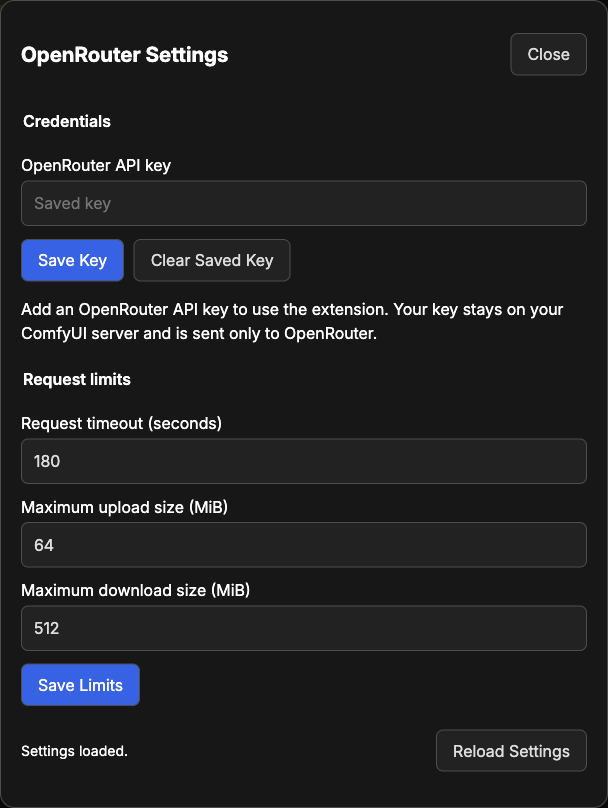
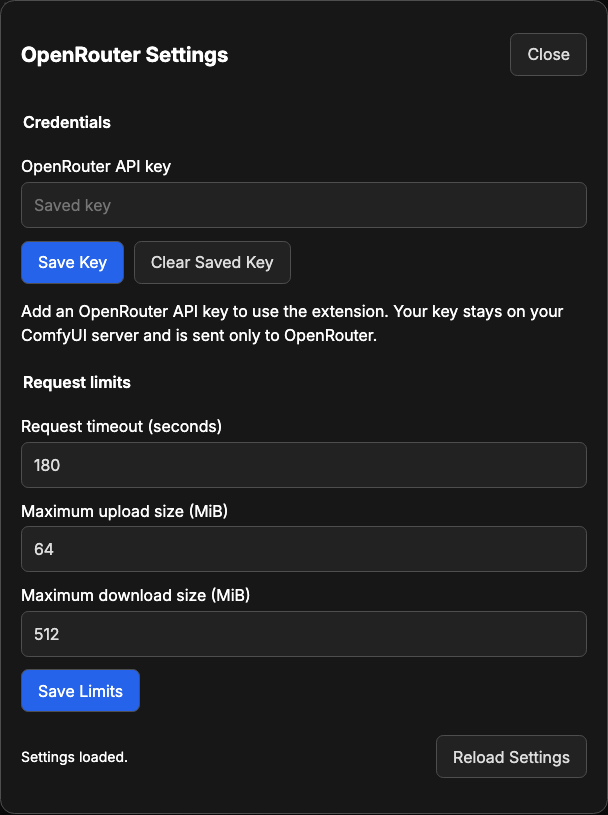
docs(docs): redraw the readme images in the family design
The banner, badges, and node map now follow the design of the BytePlus
and Dreamina packs: a near-black frame with a glow, a small eyebrow and
a gradient title, pill badges, and a node map with one card for each
kind of node. The colors keep the OpenRouter indigo and the electric
yellow of this pack.

The new mark is a wire that splits into three routes, with the family's
yellow socket at the end of the bright middle route. It is the
extension's own drawing, not OpenRouter's logo. The banner draws it,
docs/images/brand/logo.png holds it at 400 pixels, and pyproject.toml
names that file as the Registry icon.

The screenshots are taken again at 100% zoom. Chat: Ask still showed
outputs and answer_schema, from before the sampling inputs and the
renamed fields; it now shows the current inputs. The workflow screenshot
shows all of image-01 with its notes instead of one group, as the other
packs do. The settings dialog shows the default limits.

The advanced guide describes the new palette and mark.

Claude-Session: https://claude.ai/code/session_01FbQZFqe1KEDAv64NWa35kV

diff --git a/README.md b/README.md
@@ -108,7 +108,7 @@ They are in **Browse Templates**, under **openrouter**. Start with each
 workflow's **Start Here** note; each step is a subgraph. Media inputs start
 empty.
 
-![Screenshot of the Choose group in image-01: a note above the group explains the step, two Decision: Add Question nodes hold Jev's questions, and the Choose subgraph node shows its inputs and its approved and review folders.](docs/images/screenshots/image-01-choose-group.png)
+![Screenshot of image-01: the Start Here note and a note for each step sit above three groups. Input holds the Brief prompt. Draw holds the Draw subgraph, which draws three candidate images. Choose holds two Decision: Add Question nodes with Jev's questions, the Choose subgraph with its approved and review folders, and the Summary.](docs/images/screenshots/image-01-workflow.png)
 
 After an update, open the examples in a new tab to get the new versions.
 
@@ -116,7 +116,7 @@ After an update, open the examples in a new tab to get the new versions.
 
 The nodes are under **OpenRouter** in the node menu, and each has a help page.
 
-![Node map. Chat: Attach Document feeds Chat: Ask. Decision: Add Question feeds Decision: Ask, which feeds Decision: Read Answer. Request Options feeds any paid node. Model: Info stands alone and needs no key. Video: Download collects a job Video: Generate left running, so no link joins them. Paid nodes have an indigo bar.](docs/images/diagrams/node-map.svg)
+![Node map: one card for each kind of node. Chat: Attach Document feeds Chat: Ask, and Decision: Add Question feeds Decision: Ask, which feeds Decision: Read Answer. Video: Download collects a job Video: Generate left running. Request Options feeds any paid node, and Model: Info shows what a model takes. An indigo square marks a node that sends a paid request, and a hollow square one that bills nothing.](docs/images/diagrams/node-map.svg)
 
 | Node                                                                | What it does                                                           | Paid |
 | ------------------------------------------------------------------- | ---------------------------------------------------------------------- | ---- |
@@ -144,7 +144,7 @@ Each paid node takes any model ID from
 [openrouter.ai/models](https://openrouter.ai/models), with an optional variant
 suffix such as `:nitro`. **Model: Info** shows what any model takes.
 
-![Chat: Ask on the canvas: the conversation, documents, images, videos, audio, and options sockets; then model set to google/gemini-3.5-flash, reasoning_effort, max_tokens, temperature, modalities, aspect_ratio, voice, pdf_engine, seed, and run_number; and the answer_schema, prompt, and system_prompt boxes at the bottom.](docs/images/screenshots/chat-ask-node.png)
+![Chat: Ask on the canvas: the conversation, documents, images, videos, audio, and options sockets; model set to google/gemini-3.5-flash; reasoning_effort, max_tokens, the sampling inputs from temperature to repetition_penalty, modalities, aspect_ratio, voice, pdf_engine, seed, and run_number; and the json_schema, stop, prompt, and system_prompt boxes at the bottom, with a prompt about a stoneware mug.](docs/images/screenshots/chat-ask-node.png)
 
 Before sending, the node checks the model against the public listings of
 OpenRouter. It stops if the ID is unknown, the model makes something else, or

diff --git a/ADVANCED.md b/ADVANCED.md
@@ -340,23 +340,35 @@ src.nodes
 The images of the README and of this guide are in `docs/images/`:
 
 - `docs/images/brand/banner.svg`, `docs/images/diagrams/node-map.svg`, and the
-  four badges in `docs/images/badges/` are SVG files; edit them as text. They
-  use two palettes: the ComfyUI ink `#211927`, panels `#312C34`, edges
-  `#413B45`, text `#C2BFB9`, and yellow `#F0FF41`, and the OpenRouter indigo
-  `#6366F1`.
-- In the node map, a paid node has an indigo bar and a free one a grey bar. An
-  arrow is a solid yellow line from an output to the input it feeds; nodes that
-  share no link have no arrow.
-- The badges under the banner name the ComfyUI, frontend, and Python versions
-  and the license, on ink and grey; update them when those change.
-- `docs/images/screenshots/image-01-choose-group.png` is the **Choose** group
-  of image-01 and its note, at 100% zoom, with link midpoint markers off.
+  four badges in `docs/images/badges/` are SVG files; edit them as text. The
+  badges name the ComfyUI, frontend, and Python versions and the license;
+  update them when those change.
+- The SVG files use near-black `#0B0A13`, surfaces `#16141F`, hairlines
+  `#2A2636`, light text `#F1F0FA`, muted text `#958FA8`, and light indigo
+  `#A5A8FF`. The gradient runs from `#E0E1FF` to `#8E91FA` to `#6366F1`.
+  Yellow `#F0FF41` marks the socket of the mark and one chevron in each rail.
+- Headings in the SVG files use Helvetica Neue with tight spacing; labels use
+  a monospace font in wide-spaced capitals.
+- `docs/images/brand/logo.png` is the extension's mark, at 400 × 400 pixels on
+  a transparent background: a wire that splits into three routes. The bright
+  middle route ends in a yellow socket, and the two other routes are darker.
+- The banner draws the same mark between two rails of small chevrons, and
+  `pyproject.toml` names `docs/images/brand/logo.png` as the Registry icon.
+- To render the logo again, copy the gradients, mask, and drawing of the mark
+  from the banner into a 200 × 200 SVG. Render it at 400 × 400 pixels with
+  `rsvg-convert`, and compress it with `oxipng`.
+- The node map has one card for each kind of node. An indigo square marks a
+  node that sends a paid request, a hollow square one that bills nothing, and
+  an arrow an output that feeds the next node.
+- `docs/images/screenshots/image-01-workflow.png` is image-01 at 100% zoom,
+  with link midpoint markers off, in 256 colors.
 - `docs/images/screenshots/chat-ask-node.png` is a new **Chat: Ask** node, 420
-  pixels wide, at 100% zoom.
+  pixels wide, at 100% zoom, with a prompt typed in.
 - `docs/images/screenshots/settings-dialog.png` is the **OpenRouter Settings**
   dialog with default settings and a saved key.
 
-Keep each image under 100 KB, and give it alt text.
+The mark is this extension's own drawing, not OpenRouter's logo. Keep each
+image under 100 KB, and give it alt text.
 
 ### Change text
 
